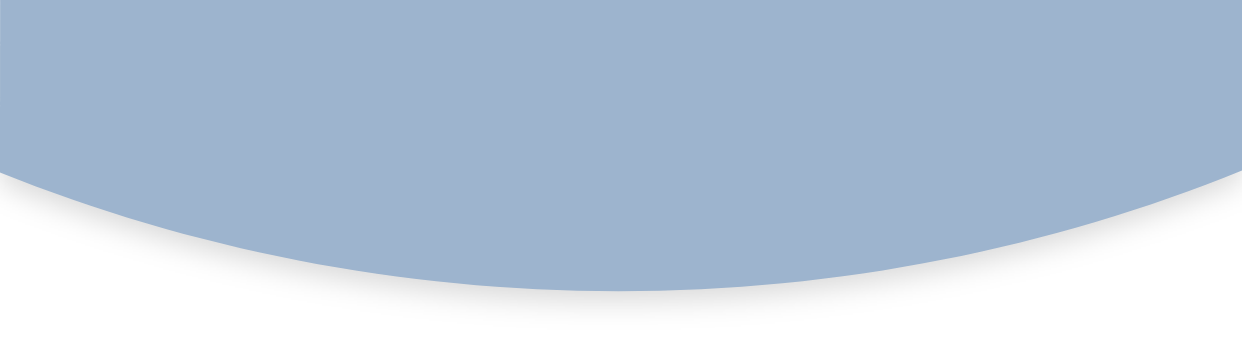
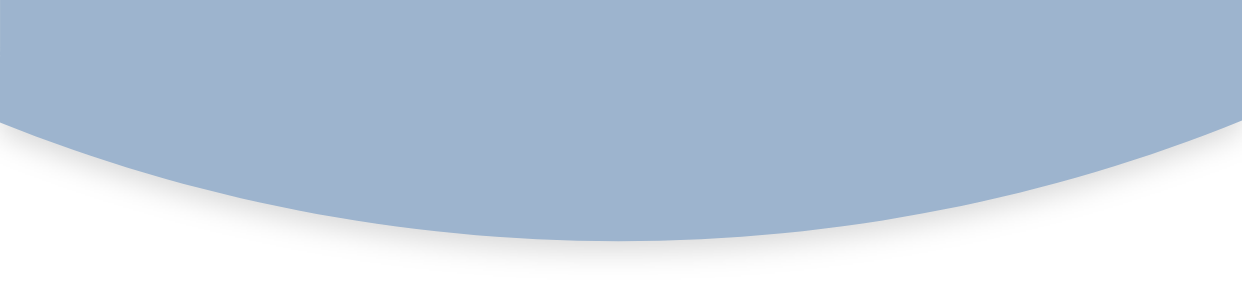
home 화면 비율

Changed region(s): [[0.0, 0.3953, 1.0, 0.8514]]

diff --git a/Components/Screens/HomeScreen.js b/Components/Screens/HomeScreen.js
@@ -81,7 +81,7 @@ class HomeScreen extends React.Component {
 
     return isLoaded ? (
       <View style={styles.container}>
-        <SafeAreaView style={{ flex: 4 }}>
+        <SafeAreaView style={{ flex: 1 }}>
           <View style={styles.topNavContainer}>
             <ImageBackground
               style={styles.topNavImg}
@@ -105,25 +105,27 @@ class HomeScreen extends React.Component {
           </View>
 
           <View style={styles.contentContainer}>
-            <Text style={styles.textContentTitle}>국내현황</Text>
-            <Tab.Navigator initialRouteName="전국" tabBarOptions={tabStyle}>
-              <Tab.Screen
-                name="전국"
-                children={() => <Area isRegion={false} />}
-              />
-              <Tab.Screen
-                name="우리 지역"
-                children={() => <Area location={location} isRegion={true} />}
-              />
-            </Tab.Navigator>
-            <TouchableOpacity
-              style={styles.btnSite}
-              onPress={this._goToCoronaSite}
-            >
-              <Text style={styles.textSite}>
-                중앙재난안전대책본부 사이트 바로가기
-              </Text>
-            </TouchableOpacity>
+            <View style={{ height: height * 0.37 }}>
+              <Text style={styles.textContentTitle}>국내현황</Text>
+              <Tab.Navigator initialRouteName="전국" tabBarOptions={tabStyle}>
+                <Tab.Screen
+                  name="전국"
+                  children={() => <Area isRegion={false} />}
+                />
+                <Tab.Screen
+                  name="우리 지역"
+                  children={() => <Area location={location} isRegion={true} />}
+                />
+              </Tab.Navigator>
+              <TouchableOpacity
+                style={styles.btnSite}
+                onPress={this._goToCoronaSite}
+              >
+                <Text style={styles.textSite}>
+                  중앙재난안전대책본부 사이트 바로가기
+                </Text>
+              </TouchableOpacity>
+            </View>
           </View>
         </SafeAreaView>
 
@@ -132,7 +134,11 @@ class HomeScreen extends React.Component {
             <></>
           ) : (
             <View style={styles.btnCircle}>
-              <Image source={firstCircle} />
+              <Image
+                source={firstCircle}
+                style={{ height: height * 0.16 + 94 * 2 }}
+                resizeMode={"contain"}
+              />
             </View>
           )}
           {Object.values(menus).map((menu, index) => {
@@ -144,7 +150,15 @@ class HomeScreen extends React.Component {
                   this._bottomMenuHandle(menu[1]);
                 }}
               >
-                {Platform.isPad ? <></> : <Image source={menu[0]} />}
+                {Platform.isPad ? (
+                  <></>
+                ) : (
+                  <Image
+                    source={menu[0]}
+                    style={{ height: height * 0.16 + 94 * (2 - index) }}
+                    resizeMode={"contain"}
+                  />
+                )}
                 <View
                   style={
                     Platform.isPad

diff --git a/Styles/HomeStyles.js b/Styles/HomeStyles.js
@@ -12,7 +12,7 @@ const styles = StyleSheet.create({
   },
   topNavContainer: {
     width: width,
-    height: Platform.isPad ? height * 0.18 : height * 0.13,
+    height: Platform.isPad ? height * 0.18 : height * 0.11,
   },
   topNavImg: {
     width: width,
@@ -27,23 +27,21 @@ const styles = StyleSheet.create({
     fontWeight: "bold",
     marginRight: 12,
     marginLeft: 16,
+    marginBottom: 10,
   },
 
   contentContainer: {
-    height: height * 0.44,
+    height: height * 0.45,
     minHeight: 150,
     marginHorizontal: basicMargin,
+    justifyContent: "center",
   },
   textContentTitle: {
     color: "white",
     fontSize: basicFontSize + 5,
     fontWeight: "bold",
-    marginTop: "10%",
   },
 
-  btnContainer: {
-    height: height * 0.12,
-  },
   btnSite: {
     height: 50,
     justifyContent: "center",
@@ -76,7 +74,7 @@ const styles = StyleSheet.create({
   },
 
   bottomNavContainer: {
-    height: height * 0.38,
+    height: height * 0.44,
     justifyContent: "flex-end",
     alignItems: "center",
   },
@@ -87,13 +85,13 @@ const styles = StyleSheet.create({
   textMenuContainer: {
     width: "100%",
     position: "absolute",
-    marginTop: 43,
+    marginTop: 38,
   },
   textMenu: {
     color: "#707070",
     fontSize: basicFontSize,
     fontWeight: "bold",
-    marginTop: 11,
+    marginTop: 10,
     alignSelf: "center",
     alignItems: "center",
     textAlign: "center",
